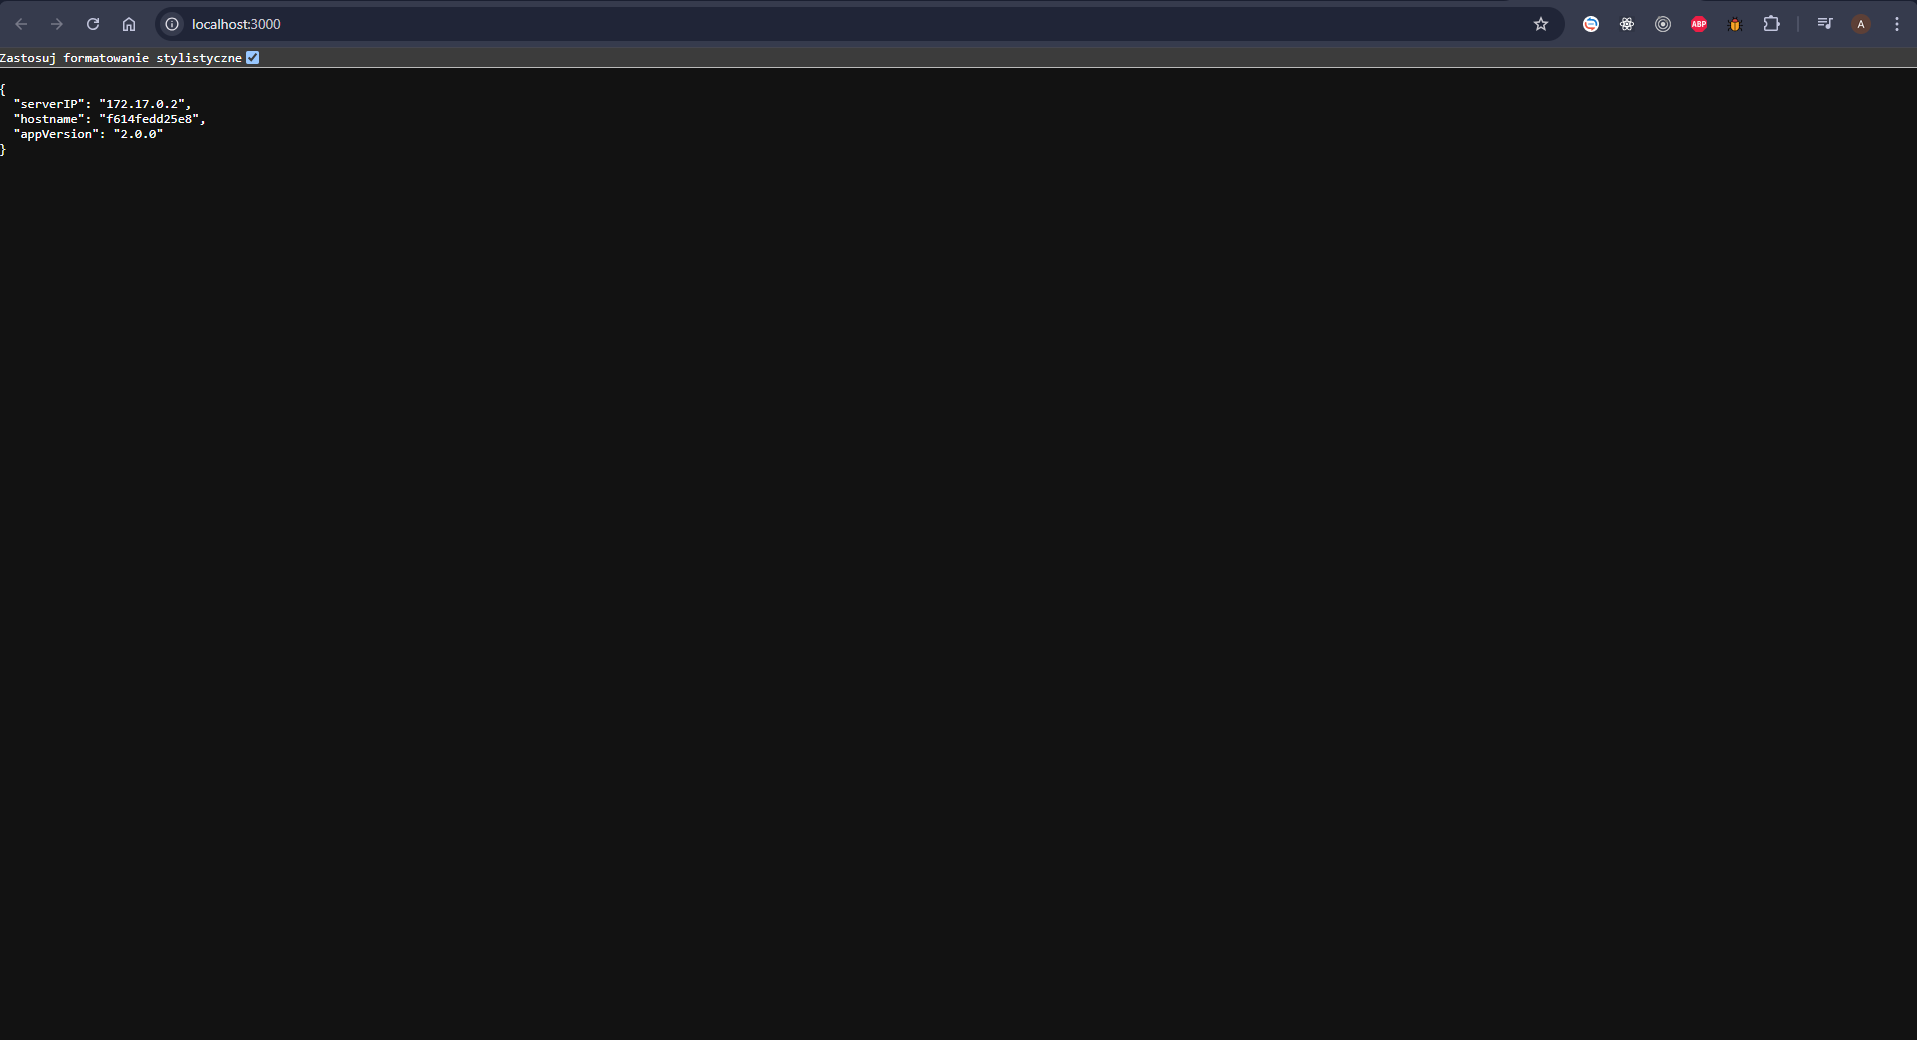
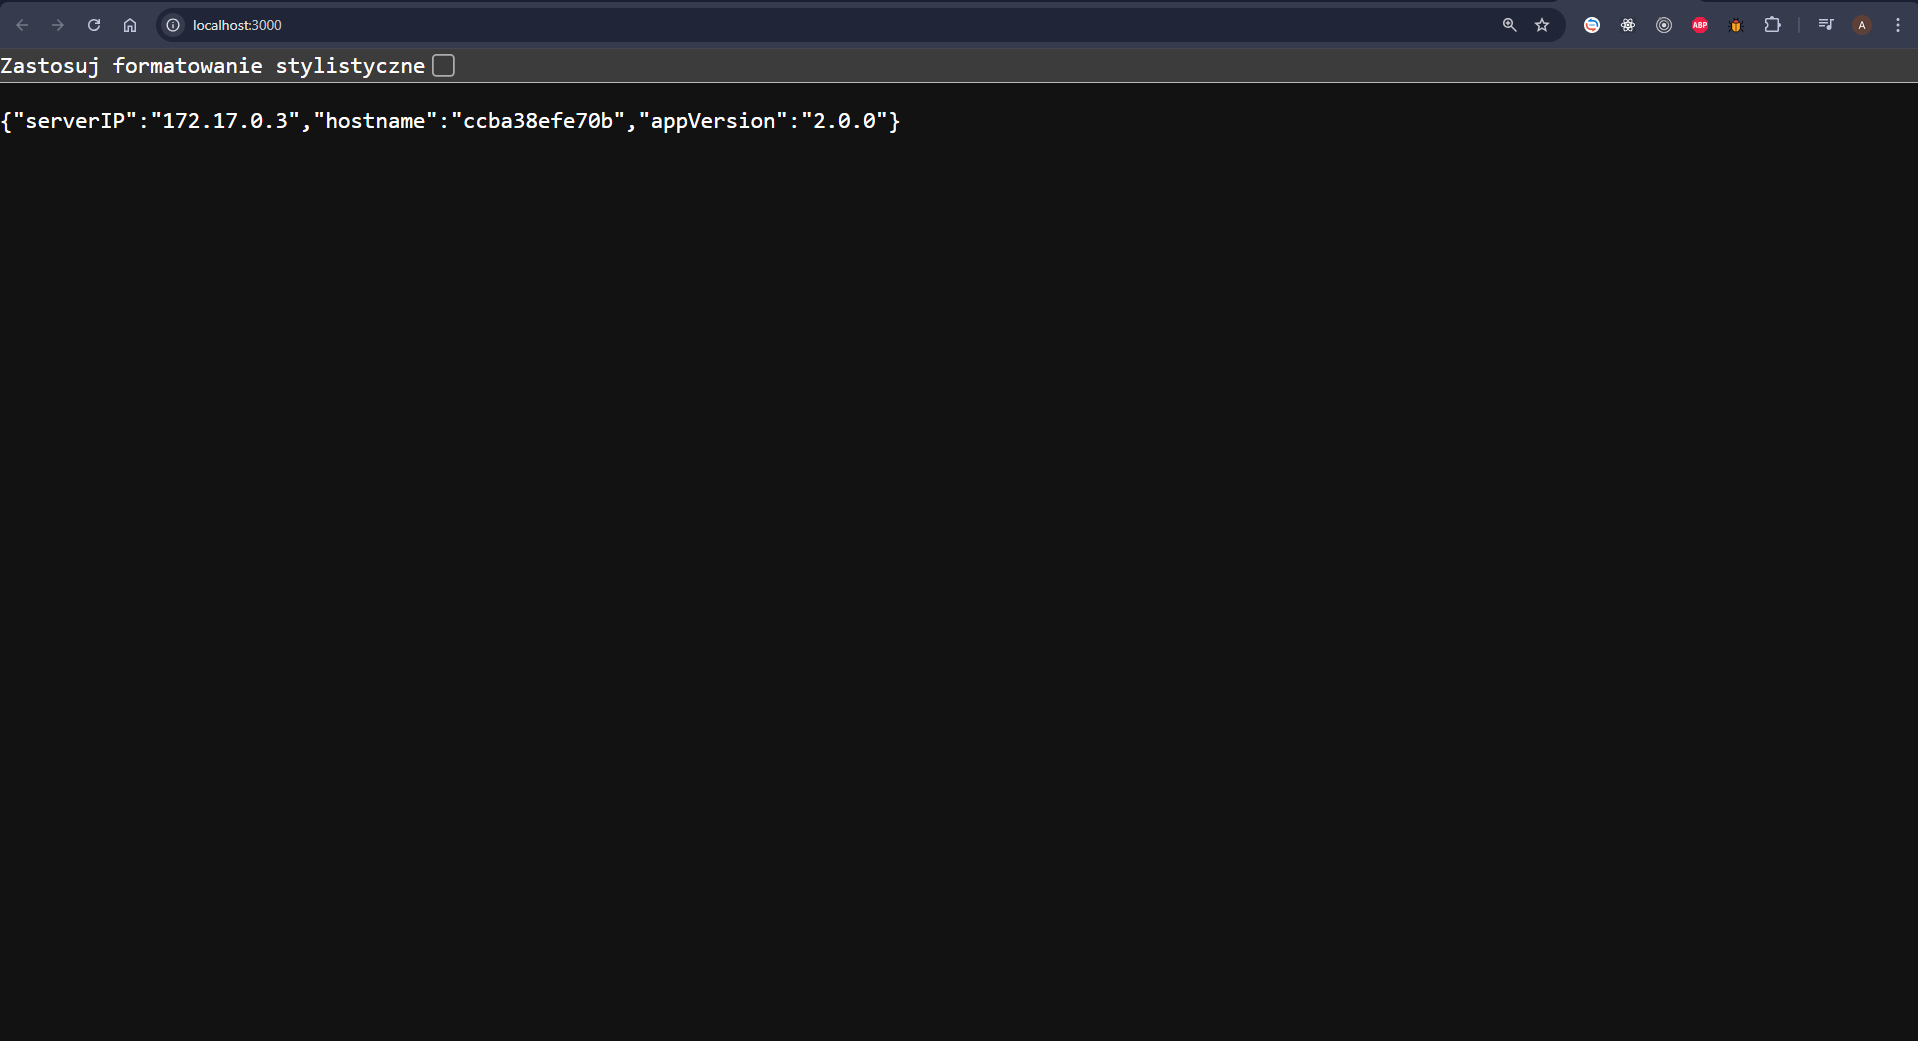
completed second task

Changed region(s): [[0.0, 0.0, 1.0, 0.1538], [0.8618, 0.0, 0.9541, 0.0308], [0.8002, 0.0, 0.831, 0.0308]]

diff --git a/README.md b/README.md
@@ -14,44 +14,60 @@ Kod źródłowy jest kompilowany do JavaScript przed uruchomieniem w kontenerze.
 
 Aby zbudować obraz aplikacji, użyj następującego polecenia:
 
-```sh
+```bash
 docker build --build-arg VERSION=2.0.0 -t my-backend-app .
 ```
 
 ### Wynik działania polecenia build
 
-```sh
-[+] Building 2.7s (11/11) FINISHED
- => [internal] load build definition from Dockerfile                            0.0s
- => [internal] load .dockerignore                                               0.0s
- => [internal] load build context                                               0.0s
- => CACHED [base 1/1] ADD alpine-minirootfs-3.21.3-x86_64.tar /                 0.0s
- => CACHED [builder 1/6] RUN apk add --no-cache nodejs pnpm                     0.0s
- => CACHED [builder 2/6] WORKDIR /app                                           0.0s
- => CACHED [builder 3/6] COPY package.json tsconfig.json .env ./                0.0s
- => CACHED [builder 4/6] RUN pnpm install                                       0.0s
- => CACHED [builder 5/6] COPY src ./src                                         0.0s
- => [builder 6/6] RUN pnpm build                                                1.9s
- => exporting to image                                                          0.6s
- => => naming to docker.io/library/my-backend-app:v2                            0.0s
- => => unpacking to docker.io/library/my-backend-app:v2                                                              0.0s
+```bash
+[+] Building 1.0s (11/11) FINISHED                                                                                  docker:desktop-linux
+ => [internal] load build definition from Dockerfile                                                                0.0s
+ => => transferring dockerfile: 1.33kB                                                                              0.0s
+ => [internal] load .dockerignore                                                                                   0.0s
+ => => transferring context: 416B                                                                                   0.0s
+ => [internal] load build context                                                                                   0.0s
+ => => transferring context: 202B                                                                                   0.0s
+ => CACHED [base 1/1] ADD alpine-minirootfs-3.21.3-x86_64.tar /                                                     0.0s
+ => CACHED [builder 1/6] RUN apk add --no-cache nodejs pnpm                                                         0.0s
+ => CACHED [builder 2/6] WORKDIR /app                                                                               0.0s
+ => CACHED [builder 3/6] COPY package.json tsconfig.json .env ./                                                    0.0s
+ => CACHED [builder 4/6] RUN pnpm install                                                                           0.0s
+ => CACHED [builder 5/6] COPY src ./src                                                                             0.0s
+ => CACHED [builder 6/6] RUN pnpm build                                                                             0.0s
+ => exporting to image                                                                                              0.6s
+ => => exporting layers                                                                                             0.0s
+ => => exporting manifest sha256:570f9e2f1cc152fd6b7226197221487c2602fff7d006d54fcaf85bf226586cdd                   0.0s
+ => => exporting config sha256:9328567b17b68cadd54c0304308749b329677355c778d46a8c4f5460592c6abb                     0.0s
+ => => exporting attestation manifest sha256:4b504e75cb38b0f1d7693add5d8401d6f1311382f1598e582938e35a3c748b19       0.3s
+ => => exporting manifest list sha256:26628b8be9f6ed4dbb653aad2805a1978561a275317ef025746aef87a9edf806              0.0s
+ => => naming to docker.io/library/my-backend-app:latest                                                            0.0s
+ => => unpacking to docker.io/library/my-backend-app:latest                                                         0.0s
 ```
 
 ### 2. Uruchomienie kontenera
 
 Po zbudowaniu obrazu uruchom aplikację:
 
-```sh
-docker run -d -p 3000:3000 my-backend-app
+```bash
+docker run -d -p 3000:3000 --name backend my-backend-app
+```
+
+### 3. Wyświetlenie uruchomionych kontenerów
+
+```bash
+> docker ps
+CONTAINER ID   IMAGE                  COMMAND                  CREATED              STATUS                    PORTS                    NAMES
+ccba38efe70b   my-backend-app         "pnpm start"             About a minute ago   Up About a minute         0.0.0.0:3000->3000/tcp   backend
 ```
 
 Aplikacja będzie dostępna na `http://localhost:3000/`
 
 ### 3. Sprawdzenie działania aplikacji
 
-Aby sprwadzić, czy aplikacja działa, użyj:
+Aby sprawdzić, czy aplikacja działa, użyj:
 
-```sh
+```bash
 curl http://localhost:3000/
 ```
 
@@ -62,3 +78,85 @@ Jeśli aplikacja działa poprawnie, powinieneś otrzymać odpowiedź JSON
 ![Image](wynik_1.png)
 
 ---
+
+## Zadanie 2 (Dodatkowa warstwa nginx)
+
+## Uwagi
+
+Rozumiem, że w treści zadania najprawdopodobniej chodziło o statyczną stronę HTML. Niemniej jednak, postanowiłem podjąć próbę realizacji zadania na aplikacji backendowej. W związku z tym konieczne było skonfigurowanie serwera Nginx jako reverse proxy, aby odpowiednio kierować zapytania HTTP do aplikacji backendowej. Mam nadzieję, że ta zmiana nie wpłynie negatywnie na ocenę końcową. 🤗
+
+## 1. **Zbudowanie obrazu Docker**
+
+Aby zbudować obraz z reverse proxy, użyj następującego polecenia:
+
+```bash
+docker build --build-arg VERSION=2.0.1 -f Dockerfile_nginx -t my-nginx-backend-app .
+```
+
+## Wynik polecenia:
+
+```bash
+[+] Building 1.2s (17/17) FINISHED docker:desktop-linux
+ => [internal] load build definition fromDockerfile_nginx                                                                           0.0s
+ => => transferring dockerfile: 2.50kB                                                                                              0.0s
+ => [internal] load metadata for docker.io/library/nginx:alpine                                                                     0.5s
+ => [internal] load .dockerignore                                                                                                   0.0s
+ => => transferring context: 416B                                                                                                   0.0s
+ => [internal] load build context                                                                                                   0.0s
+ => => transferring context: 232B                                                                                                   0.0s
+ => [nginx-server 1/5] FROM docker.io/library/nginx:alpine@sha256:4ff102c5d78d254a6f0da062b3cf39eaf07f01eec0927fd21e219d0af8bc0591  0.1s
+ => => resolve docker.io/library/nginx:alpine@sha256:4ff102c5d78d254a6f0da062b3cf39eaf07f01eec0927fd21e219d0af8bc0591               0.1s
+ => CACHED [nginx-server 2/5] RUN apk add --no-cache nodejs pnpm                                                                    0.0s
+ => CACHED [nginx-server 3/5] WORKDIR /app                                                                                          0.0s
+ => CACHED [base 1/1] ADD alpine-minirootfs-3.21.3-x86_64.tar /                                                                     0.0s
+ => CACHED [builder 1/6] RUN apk add --no-cache nodejs pnpm                                                                         0.0s
+ => CACHED [builder 2/6] WORKDIR /app                                                                                               0.0s
+ => CACHED [builder 3/6] COPY package.json tsconfig.json .env ./                                                                    0.0s
+ => CACHED [builder 4/6] RUN pnpm install                                                                                           0.0s
+ => CACHED [builder 5/6] COPY src ./src                                                                                             0.0s
+ => CACHED [builder 6/6] RUN pnpm build                                                                                             0.0s
+ => CACHED [nginx-server 4/5] COPY --from=builder /app ./                                                                           0.0s
+ => CACHED [nginx-server 5/5] COPY nginx.conf /etc/nginx/nginx.conf                                                                 0.0s
+ => exporting to image                                                                                                              0.2s
+ => => exporting layers                                                                                                             0.0s
+ => => exporting manifest sha256:8e608c4c20f331f3d7d4f466ec0b71bc7164b6f1808aacbde1e07ef8f04080f9                                   0.0s
+ => => exporting config sha256:99671f39c91a6b1cde662f8275c8e69b095f05ed4f5d1ea342d65ea61fe2f3e1                                     0.0s
+ => => exporting attestation manifest sha256:15f3053fee7bb4d4944588a2484575943c1633777217585c256fe66e34bb099a                       0.1s
+ => => exporting manifest list sha256:b494835646e2d83b09cd88771586a86041b8783db41df56ddee6adbbab25ff93                              0.0s
+ => => naming to docker.io/library/my-nginx-backend-app:latest                                                                      0.0s
+ => => unpacking to docker.io/library/my-nginx-backend-app:latest                                                                   0.0s
+```
+
+## 2. **Uruchomienie kontenera z reverse proxy**
+
+Po zbudowaniu obrazu uruchom aplikację z Nginx:
+
+```bash
+docker run -d -p 8080:80 --name nginx-backend my-nginx-backend-app
+```
+
+Aplikacja będzie teraz dostępna na `http://localhost:8080/.` Nginx działa jako reverse proxy, przekierowując zapytania HTTP do aplikacji `Node.js` na porcie `3000`.
+
+## 3. **Wyświetlenie uruchomionych kontenerów**
+
+```bash
+> docker ps
+CONTAINER ID   IMAGE              COMMAND                  CREATED          STATUS                    PORTS                  NAMES
+4554daf4446e   my-nginx-backend   "/docker-entrypoint.…"   18 seconds ago   Up 18 seconds (healthy)   0.0.0.0:8080->80/tcp   nginx-backend
+```
+
+Widać, że kontener jest uruchomiony i oznaczony jako healthy. To oznacza, że health check skonfigurowany w pliku Dockerfile działa poprawnie, a aplikacja backendowa jest gotowa do obsługi zapytań.
+
+## 4. **Sprawdzenie działania aplikacji**
+
+Aby sprawdzić, czy aplikacja działa poprawnie z Nginx jako reverse proxy, użyj:
+
+```bash
+curl http://localhost:8080/
+```
+
+Jeśli aplikacja działa poprawnie, powinieneś otrzymać odpowiedź JSON
+
+## **Wynik działania aplikacji**
+
+![Image](wynik_2.png)
